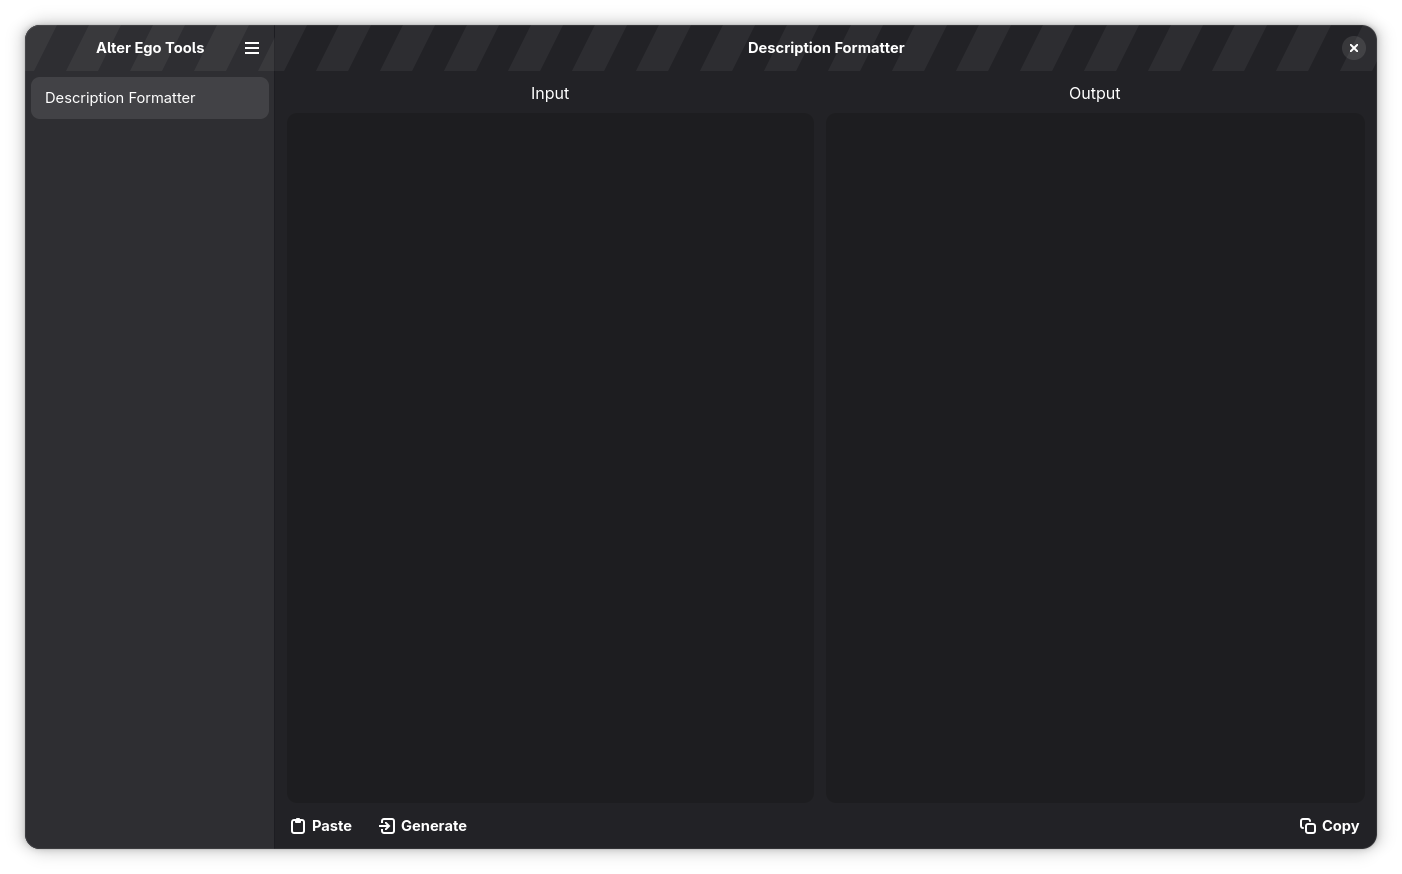
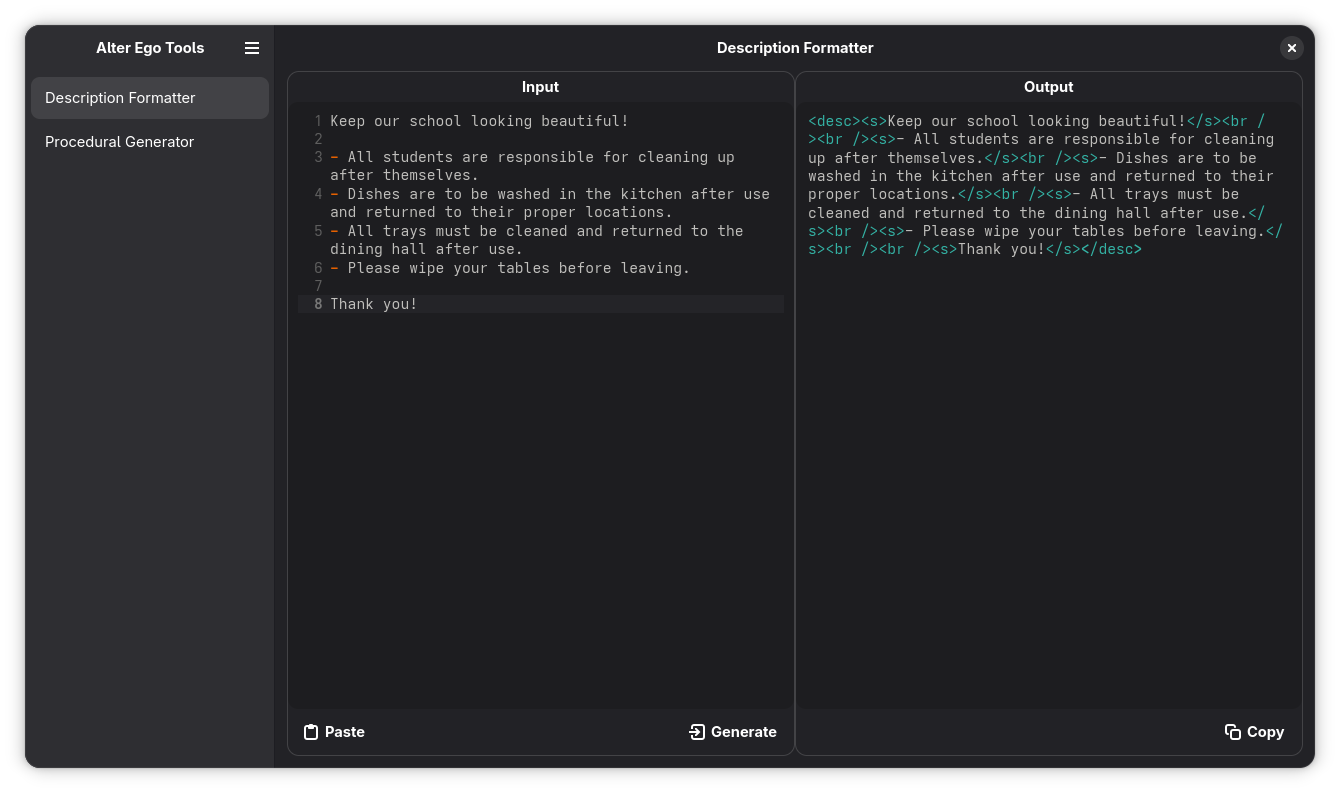
updated screenshots

diff --git a/README.md b/README.md
@@ -16,7 +16,9 @@ Creates Alter Ego procedurals and containing phrases.
 
 ## Screenshots
 
-![screenshot](data/resources/screenshots/screenshot1.png)
+![Screenshot of Description Formatter](data/resources/screenshots/screenshot1.png)
+
+![Screenshot of Procedural Generator](data/resources/screenshots/screenshot2.png)
 
 ## Building
 
